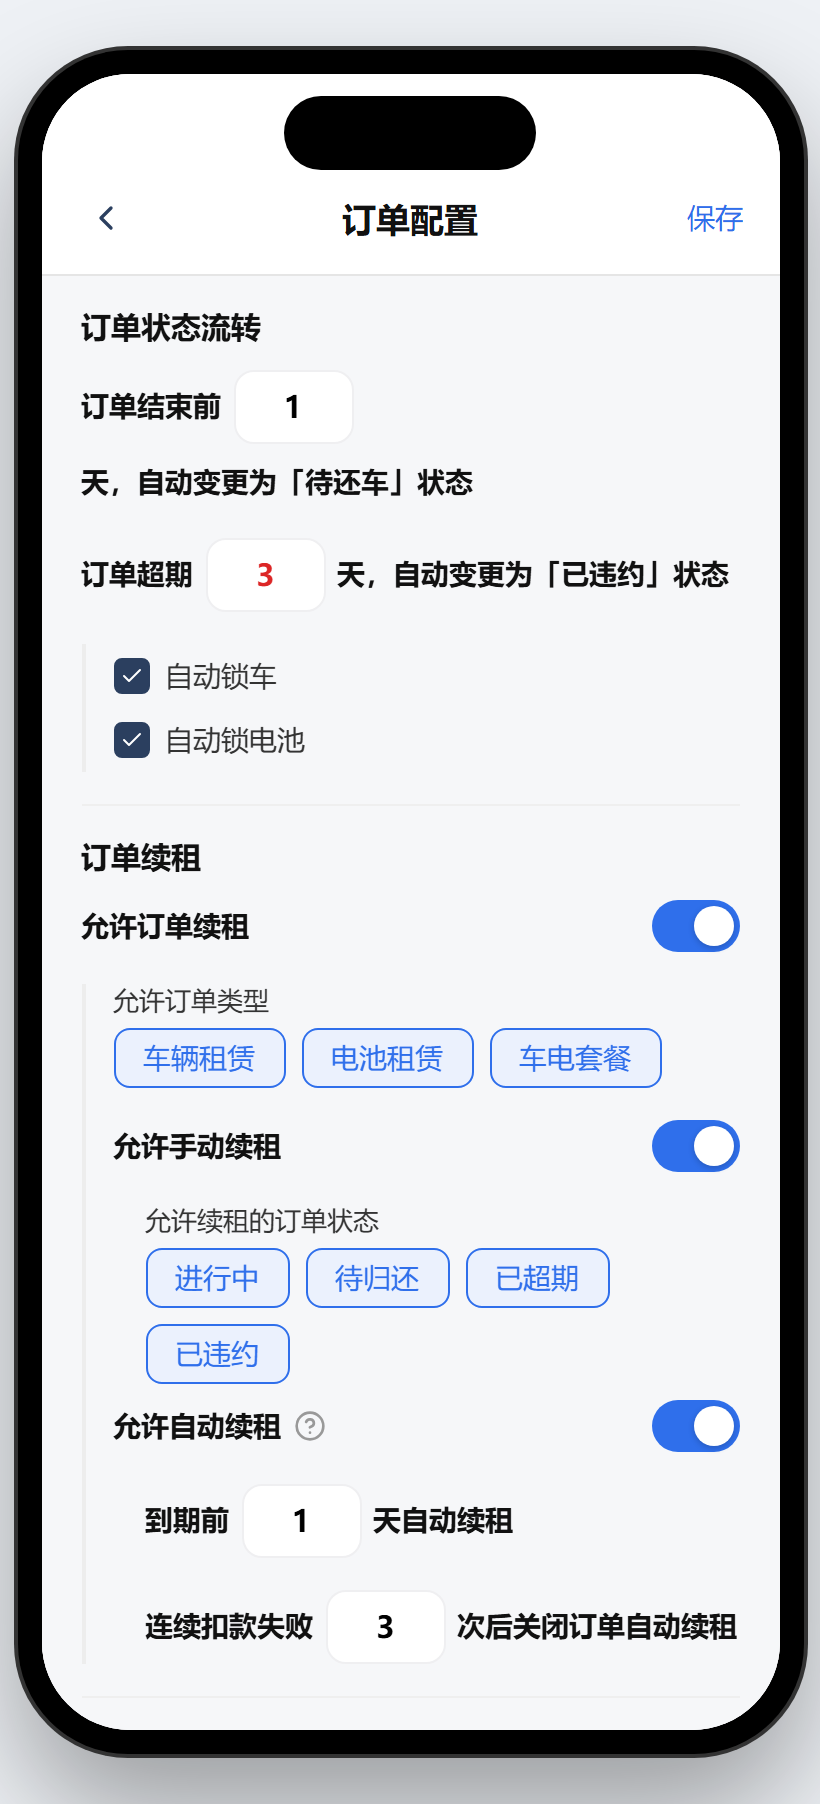
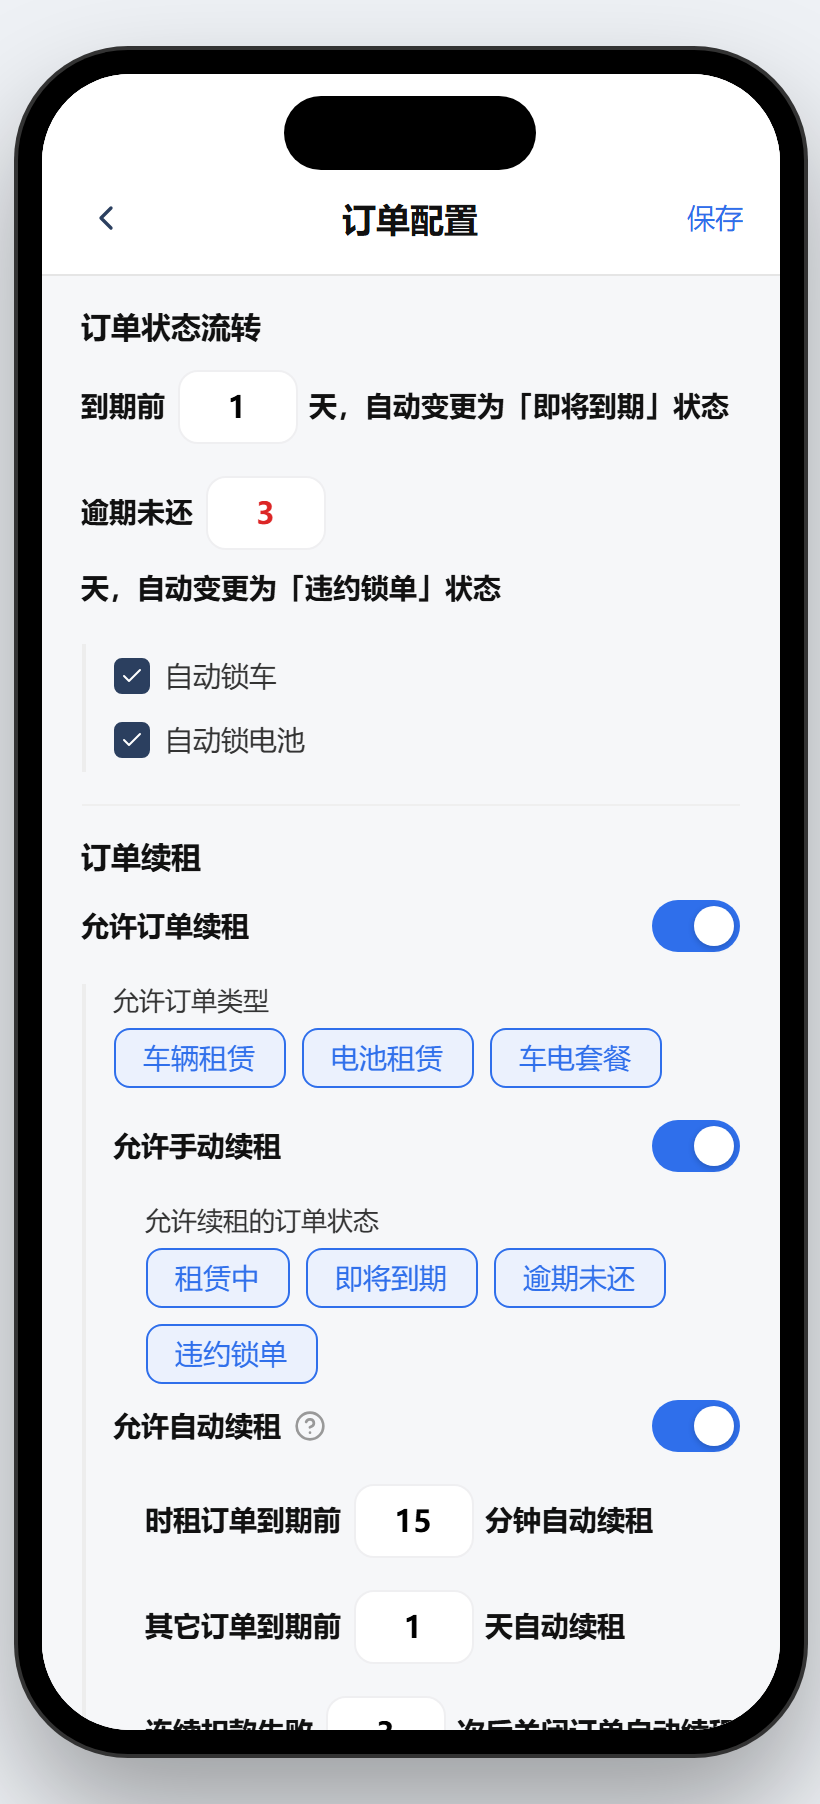
ui(order): 商户端订单配置自动续租拆分为时租订单/其它订单
「允许自动续租」下按订单类型拆分阈值：时租订单到期前 N 分钟（默认 15，校验 0–60）自动续租、其它订单到期前 N 天（0–30）自动续租，原「到期前 N 天」并入后者。locales/rent 五语同步 beforeDueAutoDays/beforeDueAutoMinutes/advanceRangeMinutes，i18n_check 无硬错误。docs(merchant-sop) 7.7 与 FAQ Q9 描述同步，并重生成 61-order-config.png。

diff --git a/index.html b/index.html
@@ -6213,8 +6213,16 @@ body.host-single-m #root-user{display:none}
      <div class="od-indent-2">
       <div class="form-row">
        <div class="flex flex-wrap items-center gap-x-1.5 gap-y-2 text-sm font-semibold leading-relaxed">
-        <span>到期前</span>
-        <div class="ff-box mini relative flex items-center w-[60px] shrink-0"><input v-model.number="cfg.renewAdvanceDays" type="number" min="0" max="30" :disabled="!cfg.renewAuto" @input="cfgErr.renewAdvanceDays=''" class="w-full px-2 py-2 text-[15px] font-semibold text-center tabular-nums"></div>
+        <span>时租订单到期前</span>
+        <div class="ff-box mini relative flex items-center w-[60px] shrink-0"><input v-model.number="cfg.renewAdvanceMinutes" type="number" min="0" max="60" :disabled="!cfg.renewAuto" @input="cfgErr.renewAdvanceMinutes=''" class="w-full px-2 py-2 text-[15px] font-semibold text-center tabular-nums" data-od-id="cfg-renew-minutes-input"></div>
+        <span>分钟自动续租</span>
+       </div>
+       <div v-if="cfgErr.renewAdvanceMinutes" class="form-hint text-[#DC2626]">{{ cfgErr.renewAdvanceMinutes }}</div>
+      </div>
+      <div class="form-row">
+       <div class="flex flex-wrap items-center gap-x-1.5 gap-y-2 text-sm font-semibold leading-relaxed">
+        <span>其它订单到期前</span>
+        <div class="ff-box mini relative flex items-center w-[60px] shrink-0"><input v-model.number="cfg.renewAdvanceDays" type="number" min="0" max="30" :disabled="!cfg.renewAuto" @input="cfgErr.renewAdvanceDays=''" class="w-full px-2 py-2 text-[15px] font-semibold text-center tabular-nums" data-od-id="cfg-renew-days-input"></div>
         <span>天自动续租</span>
        </div>
        <div v-if="cfgErr.renewAdvanceDays" class="form-hint text-[#DC2626]">{{ cfgErr.renewAdvanceDays }}</div>
@@ -6895,7 +6903,7 @@ var MERGED_REFRESH={fn:null};
 /* 顶层委派件：商户端 setup 内定义真实 publishMerged 并注册句柄；此处让顶层 SYS_* 与用户端调用可用 */
 function publishMerged(){if(MERGED_REFRESH&&MERGED_REFRESH.fn)MERGED_REFRESH.fn();}
 const csList=Vue.ref([]);
-const cfg=Vue.ref({pre:1,breach:3,renewEnabled:true,renewTypes:['VEHICLE','BATTERY','PACKAGE'],renewManual:true,renewStatuses:['IN_USE','TO_RETURN','OVERDUE','BREACH'],renewAuto:true,renewAdvanceDays:1,renewRemindDays:1,renewFailThreshold:3,requireRealName:true,autoLockVehicle:true,autoLockBattery:true});
+const cfg=Vue.ref({pre:1,breach:3,renewEnabled:true,renewTypes:['VEHICLE','BATTERY','PACKAGE'],renewManual:true,renewStatuses:['IN_USE','TO_RETURN','OVERDUE','BREACH'],renewAuto:true,renewAdvanceMinutes:15,renewAdvanceDays:1,renewRemindDays:1,renewFailThreshold:3,requireRealName:true,autoLockVehicle:true,autoLockBattery:true});
 const rechargeList=Vue.ref([{id:1,amount:100,giftAmount:10,status:1,remark:'新用户首充优惠'},{id:2,amount:200,giftAmount:30,status:1,remark:'常规定制套餐'},{id:3,amount:500,giftAmount:80,status:1,remark:''}]);
 const rechargeEnabled=Vue.ref(true);
 const rechargeCustom=Vue.ref(true);
@@ -10331,11 +10339,11 @@ function onHmWheelScroll(kind,e){
 }
 let delCsI=-1;function delCs(i){if(!can('cs_info.delete')){deny();return}delCsI=i;profileMod.value='delCs'}
 
-var cfgSaving=ref(false);const cfgErr=ref({pre:'',breach:'',renewAdvanceDays:'',renewFailThreshold:''});
+var cfgSaving=ref(false);const cfgErr=ref({pre:'',breach:'',renewAdvanceMinutes:'',renewAdvanceDays:'',renewFailThreshold:''});
 const renewTypeOpts=[{v:'VEHICLE',l:'车辆租赁'},{v:'BATTERY',l:'电池租赁'},{v:'PACKAGE',l:'车电套餐'}];
 const renewStatusOpts=[{v:'IN_USE',l:'租赁中'},{v:'TO_RETURN',l:'即将到期'},{v:'OVERDUE',l:'逾期未还'},{v:'BREACH',l:'违约锁单'}];
 function toggleCfgArr(k,v){var a=cfg.value[k];var i=a.indexOf(v);if(i>=0)a.splice(i,1);else a.push(v);}
-function saveCfg(){if(!can('order_config.edit')){deny();return}if(cfgSaving.value)return;var e={};if(!Number.isInteger(cfg.value.pre)||cfg.value.pre<1||cfg.value.pre>365)e.pre='请输入 1–365 之间的整数';if(!Number.isInteger(cfg.value.breach)||cfg.value.breach<1||cfg.value.breach>365)e.breach='请输入 1–365 之间的整数';if(cfg.value.renewAuto&&(!Number.isInteger(cfg.value.renewAdvanceDays)||cfg.value.renewAdvanceDays<0||cfg.value.renewAdvanceDays>30))e.renewAdvanceDays='请输入0-30的整数';if(cfg.value.renewAuto&&(!Number.isInteger(cfg.value.renewFailThreshold)||cfg.value.renewFailThreshold<0||cfg.value.renewFailThreshold>10))e.renewFailThreshold='请输入0-10的整数';cfgErr.value=e;if(e.pre||e.breach||e.renewAdvanceDays||e.renewFailThreshold)return;if(cfg.value.renewAuto&&!cfg.value.renewTypes.length){toast('请至少选择一种自动续租订单类型','warn');return}if(cfg.value.renewEnabled&&!cfg.value.renewStatuses.length){toast('请至少选择一种允许续租的订单状态','warn');return}cfgSaving.value=true;brandLoading.value=true;setTimeout(function(){brandLoading.value=false;toast('配置已保存','success');cfgSaving.value=false},400)}
+function saveCfg(){if(!can('order_config.edit')){deny();return}if(cfgSaving.value)return;var e={};if(!Number.isInteger(cfg.value.pre)||cfg.value.pre<1||cfg.value.pre>365)e.pre='请输入 1–365 之间的整数';if(!Number.isInteger(cfg.value.breach)||cfg.value.breach<1||cfg.value.breach>365)e.breach='请输入 1–365 之间的整数';if(cfg.value.renewAuto&&(!Number.isInteger(cfg.value.renewAdvanceMinutes)||cfg.value.renewAdvanceMinutes<0||cfg.value.renewAdvanceMinutes>60))e.renewAdvanceMinutes='请输入0-60的整数';if(cfg.value.renewAuto&&(!Number.isInteger(cfg.value.renewAdvanceDays)||cfg.value.renewAdvanceDays<0||cfg.value.renewAdvanceDays>30))e.renewAdvanceDays='请输入0-30的整数';if(cfg.value.renewAuto&&(!Number.isInteger(cfg.value.renewFailThreshold)||cfg.value.renewFailThreshold<0||cfg.value.renewFailThreshold>10))e.renewFailThreshold='请输入0-10的整数';cfgErr.value=e;if(e.pre||e.breach||e.renewAdvanceMinutes||e.renewAdvanceDays||e.renewFailThreshold)return;if(cfg.value.renewAuto&&!cfg.value.renewTypes.length){toast('请至少选择一种自动续租订单类型','warn');return}if(cfg.value.renewEnabled&&!cfg.value.renewStatuses.length){toast('请至少选择一种允许续租的订单状态','warn');return}cfgSaving.value=true;brandLoading.value=true;setTimeout(function(){brandLoading.value=false;toast('配置已保存','success');cfgSaving.value=false},400)}
 /* ══ 充值配置 ══ */
 
 

diff --git a/docs/merchant-rental-sop/index.html b/docs/merchant-rental-sop/index.html
@@ -986,7 +986,7 @@
       <p>订单规则集中配置，分三部分：</p>
       <ul>
         <li><b>订单状态流转</b>：到期前 <code>N</code> 天（1–365）自动变更为「即将到期」；逾期未还 <code>N</code> 天（1–365）自动变更为「违约锁单」；可选「自动锁车」「自动锁电池」。</li>
-        <li><b>订单续租</b>：允许订单续租总开关 → 允许订单类型（车辆租赁 / 电池租赁 / 车电套餐）；允许手动续租开关 → 允许续租的订单状态（租赁中 / 即将到期 / 逾期未还 / 违约锁单）；允许自动续租开关 → 到期前 <code>N</code> 天（0–30）自动续租、连续扣款失败 <code>N</code> 次（0–10）后关闭自动续租。</li>
+        <li><b>订单续租</b>：允许订单续租总开关 → 允许订单类型（车辆租赁 / 电池租赁 / 车电套餐）；允许手动续租开关 → 允许续租的订单状态（租赁中 / 即将到期 / 逾期未还 / 违约锁单）；允许自动续租开关 → 时租订单到期前 <code>N</code> 分钟（0–60）自动续租、其它订单到期前 <code>N</code> 天（0–30）自动续租、连续扣款失败 <code>N</code> 次（0–10）后关闭自动续租。</li>
         <li><b>实名信息</b>：必须上传实名信息开关（开启后用户下单须选择实名信息）。</li>
       </ul>
       <p>右上角「保存」提交；校验失败会在对应字段下方给出提示，续租类型 / 状态未选会提示「请至少选择一种…」。</p>
@@ -1165,7 +1165,7 @@
 
       <details class="faq">
         <summary>Q9　订单配置里的天数改动会立刻生效吗？</summary>
-        <p>保存后即作为规则生效：到期前 N 天自动转「即将到期」、逾期未还 N 天自动转「违约锁单」，自动续租的提前天数与扣款失败阈值同理。请谨慎调整，避免影响存量订单。</p>
+        <p>保存后即作为规则生效：到期前 N 天自动转「即将到期」、逾期未还 N 天自动转「违约锁单」，自动续租的提前时间（时租订单按分钟、其它订单按天）与扣款失败阈值同理。请谨慎调整，避免影响存量订单。</p>
       </details>
 
       <details class="faq">
